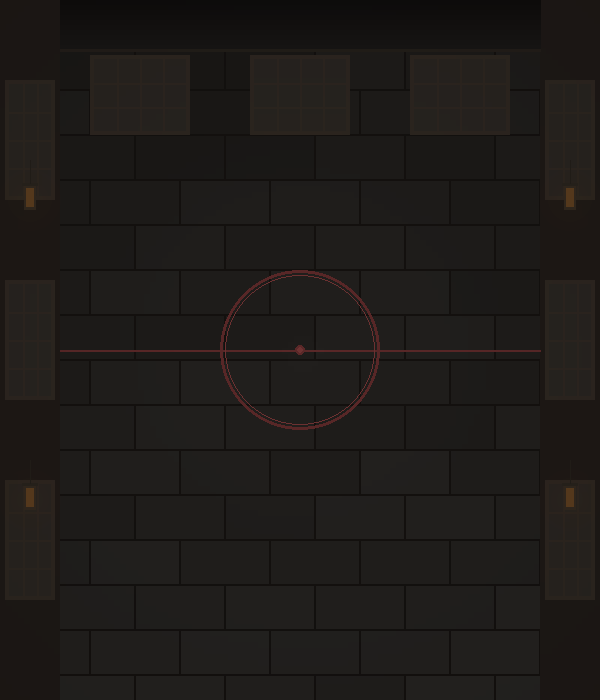
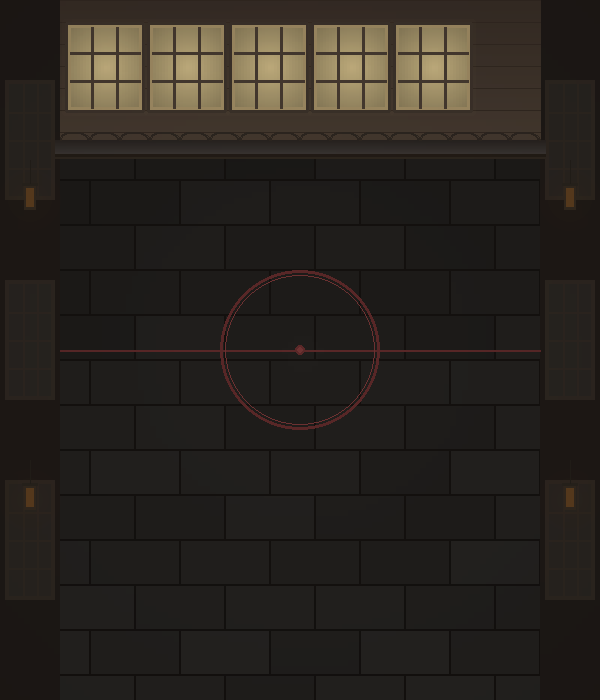
Auto-save #379: Python 코드 작업 - 2025-11-21 23:53:04

Changed region(s): [[0.09, 0.0, 0.9, 0.24]]

diff --git a/backgrounds/animated_background_stage8.py b/backgrounds/animated_background_stage8.py
@@ -50,15 +50,19 @@ class AnimatedBackgroundStage8:
             (width - 55, 280, 50, 120),
             (width - 55, 480, 50, 120),
         ]
-        self.window_positions_top = [
-            (90, 55, 100, 80),
-            (width // 2 - 50, 55, 100, 80),
-            (width - 190, 55, 100, 80),
-        ]
+        # 상단 창문 위치 (5개 연속 창문) - 오동나무 저택
+        total_win_width = width - 120 - 60
+        num_windows = 5
+        win_margin = 8
+        win_w = (total_win_width - (num_windows + 1) * win_margin) // num_windows
+        self.window_positions_top = []
+        for i in range(num_windows):
+            wx = 60 + win_margin + i * (win_w + win_margin)
+            self.window_positions_top.append((wx, 25, win_w, 85))
 
-        # 창문 빛 상태
+        # 창문 빛 상태 (6 + 5 = 11개)
         self.window_states: List[dict] = []
-        for _ in range(9):
+        for _ in range(11):
             self.window_states.append({
                 "phase": random.uniform(0, math.tau),
                 "intensity": random.uniform(0.3, 0.6),
@@ -536,18 +540,30 @@ class AnimatedBackgroundStage8:
         all_windows = self.window_positions_left + self.window_positions_right + self.window_positions_top
 
         for i, (wx, wy, ww, wh) in enumerate(all_windows):
+            if i >= len(self.window_states):
+                break
             state = self.window_states[i]
             intensity = state["intensity"]
 
-            glow_alpha = int(25 * intensity)
+            # 상단 창문은 더 밝은 따뜻한 빛 (오동나무 저택)
+            is_top_window = i >= 6
+            if is_top_window:
+                glow_alpha = int(40 * intensity)
+                glow_color = (140, 110, 70, glow_alpha)  # 따뜻한 황색 빛
+                spread_color = (120, 95, 60)
+            else:
+                glow_alpha = int(25 * intensity)
+                glow_color = (60, 50, 40, glow_alpha)
+                spread_color = (50, 40, 30)
+
             if glow_alpha > 0:
                 glow_surf = pygame.Surface((ww, wh), pygame.SRCALPHA)
-                pygame.draw.rect(glow_surf, (60, 50, 40, glow_alpha), (0, 0, ww, wh))
+                pygame.draw.rect(glow_surf, glow_color, (0, 0, ww, wh))
                 overlay.blit(glow_surf, (wx + 4, wy + 4))
 
                 for r in range(3):
                     spread_alpha = max(0, glow_alpha - r * 8)
-                    pygame.draw.rect(overlay, (50, 40, 30, spread_alpha),
+                    pygame.draw.rect(overlay, (*spread_color, spread_alpha),
                                    (wx - r * 3, wy - r * 3, ww + r * 6, wh + r * 6), 1)
 
     def _draw_lantern_glow(self, overlay: pygame.Surface) -> None:
